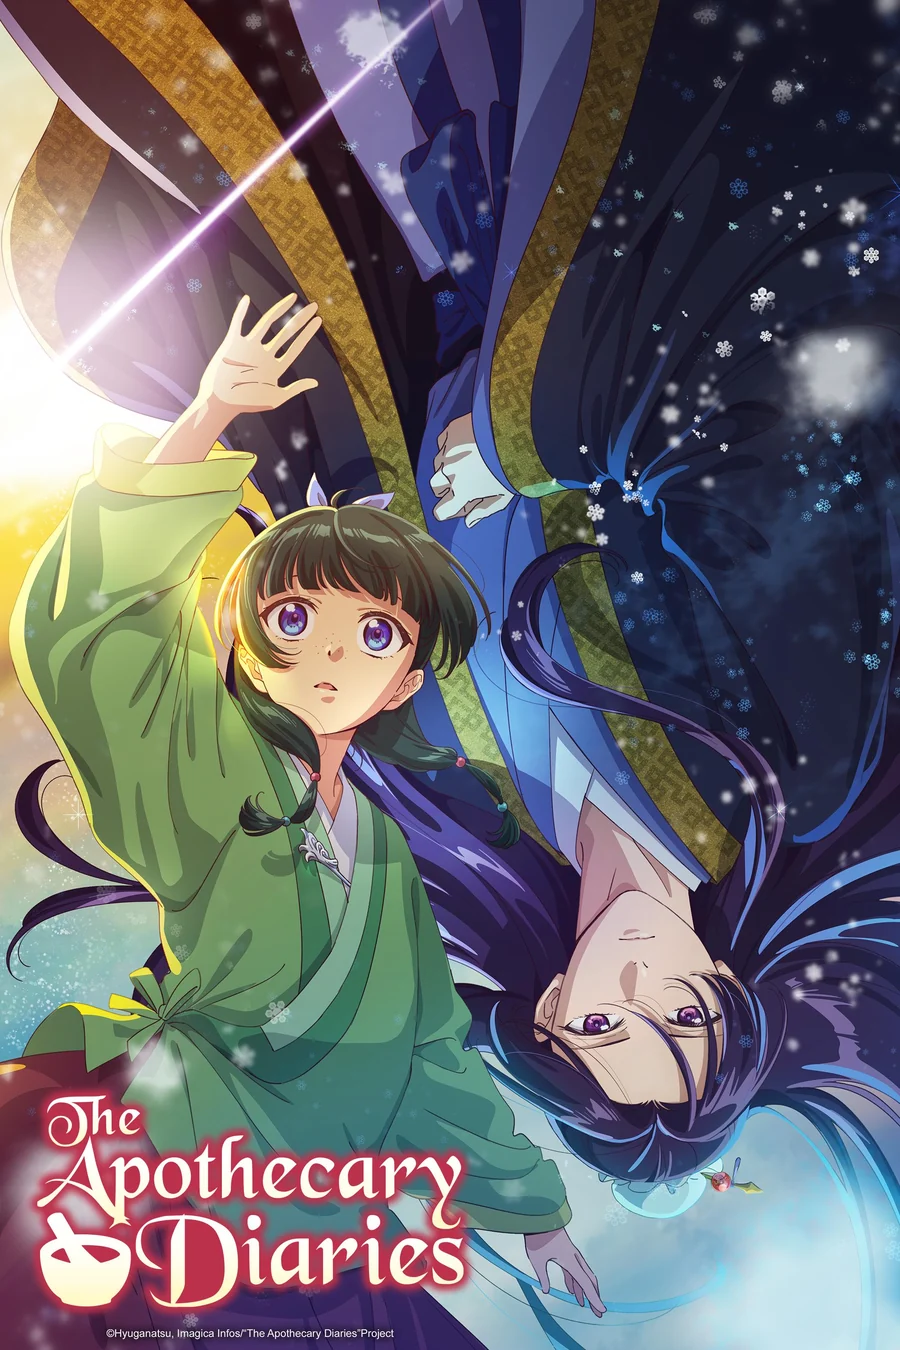
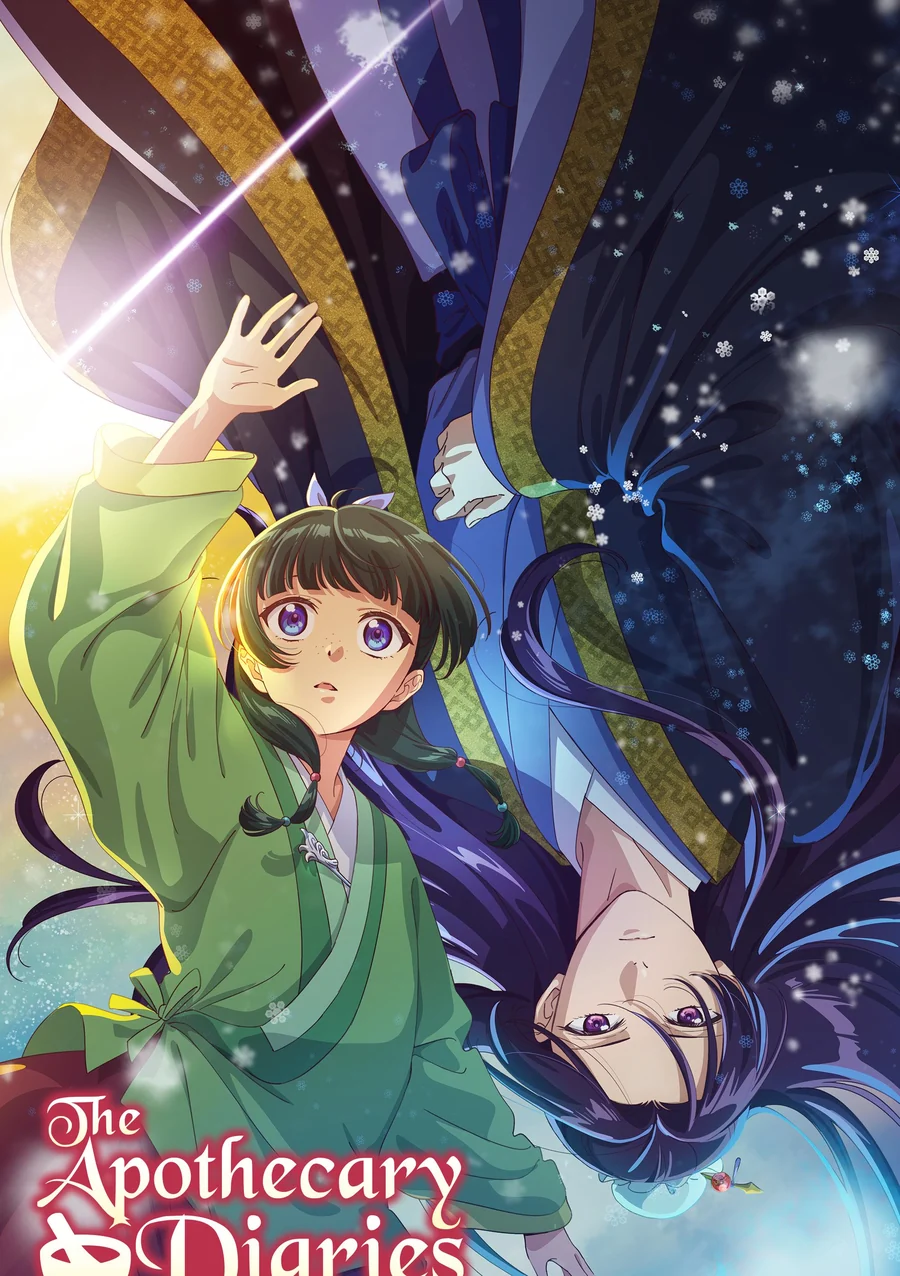
Apothecary Diaries S3: crop credit/watermark off images, drop overlaid poster

diff --git a/articles/apothecary-diaries-season-3-review.html b/articles/apothecary-diaries-season-3-review.html
@@ -62,7 +62,7 @@
 
 <p>If Season 2 was about the palace, Season 3 looks set to be about the country. The stakes are noticeably bigger, and the world is noticeably larger.</p>
 
-<figure style="margin:26px 0"><img src="../assets/img/apothecary-diaries-season-3-review-1.webp" alt="The Apothecary Diaries Season 3 key visual &mdash; Maomao and Jinshi." loading="lazy" decoding="async" style="width:100%;height:auto;border-radius:14px;max-width:520px;display:block;margin:0 auto"><figcaption style="font-size:13.5px;color:#8a8aa3;margin-top:8px;text-align:center">The Apothecary Diaries Season 3 key visual &mdash; Maomao and Jinshi.</figcaption></figure><figure style="margin:26px 0"><img src="../assets/img/apothecary-diaries-season-3-review-3.webp" alt="The new seasonal poster for The Apothecary Diaries Season 3." loading="lazy" decoding="async" style="width:100%;height:auto;border-radius:14px;max-width:430px;display:block;margin:0 auto"><figcaption style="font-size:13.5px;color:#8a8aa3;margin-top:8px;text-align:center">The new seasonal poster for The Apothecary Diaries Season 3.</figcaption></figure><h2>Episode schedule and length</h2>
+<figure style="margin:26px 0"><img src="../assets/img/apothecary-diaries-season-3-review-1.webp" alt="The Apothecary Diaries Season 3 key visual &mdash; Maomao and Jinshi." loading="lazy" decoding="async" style="width:100%;height:auto;border-radius:14px;max-width:520px;display:block;margin:0 auto"><figcaption style="font-size:13.5px;color:#8a8aa3;margin-top:8px;text-align:center">The Apothecary Diaries Season 3 key visual &mdash; Maomao and Jinshi.</figcaption></figure><h2>Episode schedule and length</h2>
 
 <p>The season is listed at 12 episodes, roughly 24 minutes each, running weekly from 2 October 2026. That is the same shape as previous seasons, and the show has been consistent about using that time well &mdash; usually one main mystery with two or three smaller ones threaded through it.</p>
 

diff --git a/fix_apoth_images.py b/fix_apoth_images.py
@@ -1,0 +1,43 @@
+#!/usr/bin/env python3
+"""Re-encode the Apothecary Diaries images with the credit/watermark areas cropped out,
+and drop the heavily-overlaid poster image from the article."""
+import os, re
+from PIL import Image
+
+SLUG = "apothecary-diaries-season-3-review"
+IMG = "assets/img"
+
+# (source, out name, crop-bottom fraction, max width, quality)
+JOBS = [
+    ("1000020535.jpg", f"{SLUG}-cover.webp", 0.00, 1200, 88),   # clean night art
+    ("1000020534.jpg", f"{SLUG}-1.webp",     0.055, 900, 86),   # key visual - credit line off
+    ("1000020536.jpg", f"{SLUG}-2.webp",     0.200, 588, 90),   # field art - title off
+]
+
+for src, out, frac, maxw, q in JOBS:
+    im = Image.open(f"/scratch/input/{src}").convert("RGB")
+    if frac:
+        im = im.crop((0, 0, im.width, im.height - int(im.height * frac)))
+    if im.width > maxw:
+        im = im.resize((maxw, round(im.height * maxw / im.width)), Image.LANCZOS)
+    im.save(os.path.join(IMG, out), "WEBP", quality=q, method=6)
+    print(f"{out:44s} {im.width}x{im.height}  {os.path.getsize(os.path.join(IMG,out))//1024} KB")
+
+# ---- remove the poster image (too much overlay/watermark) from the article ----
+p = f"articles/{SLUG}.html"
+s = open(p, encoding="utf-8").read()
+before = s
+s = re.sub(r'<figure[^>]*>\s*<img[^>]*' + re.escape(f"{SLUG}-3.webp") + r'[^>]*>.*?</figure>',
+           "", s, flags=re.S)
+s = s.replace(f"{SLUG}-3.webp", "")          # belt & braces
+open(p, "w", encoding="utf-8").write(s)
+print("\nposter figure removed:", s != before)
+
+# delete the unused webp
+f3 = os.path.join(IMG, f"{SLUG}-3.webp")
+if os.path.exists(f3):
+    os.remove(f3); print("deleted", f3)
+
+print("\nfigures left:", len(re.findall(r"<figure", s)))
+for n in ["cover", "1", "2", "3"]:
+    print(f"  {SLUG}-{n}.webp referenced:", f"{SLUG}-{n}.webp" in s)
